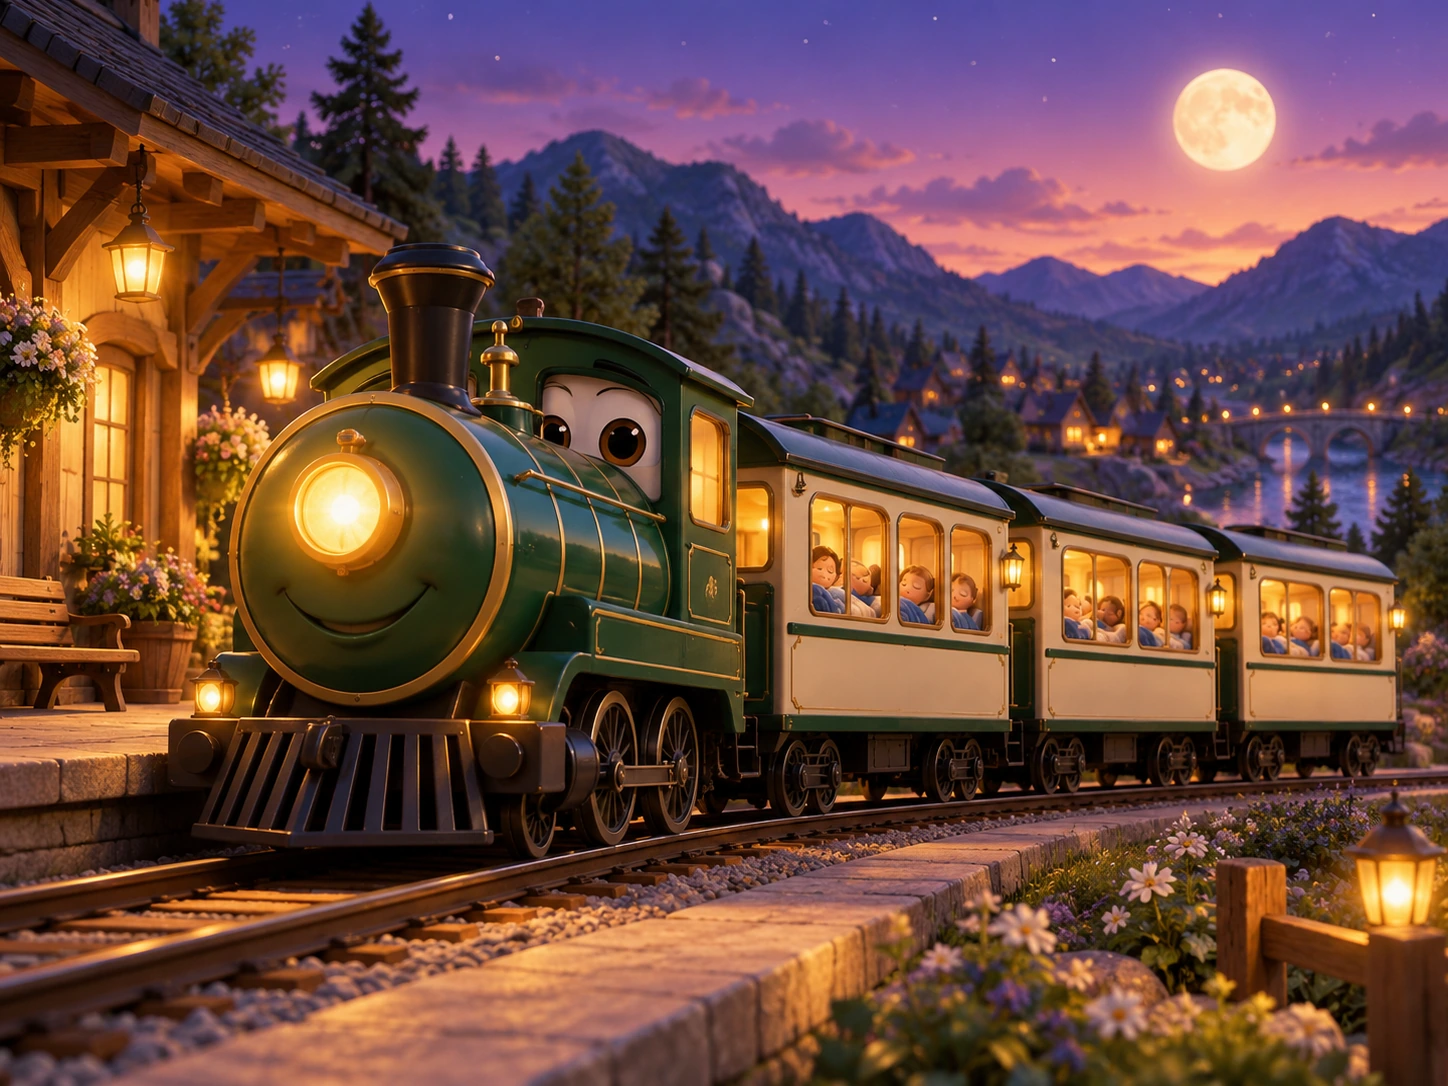
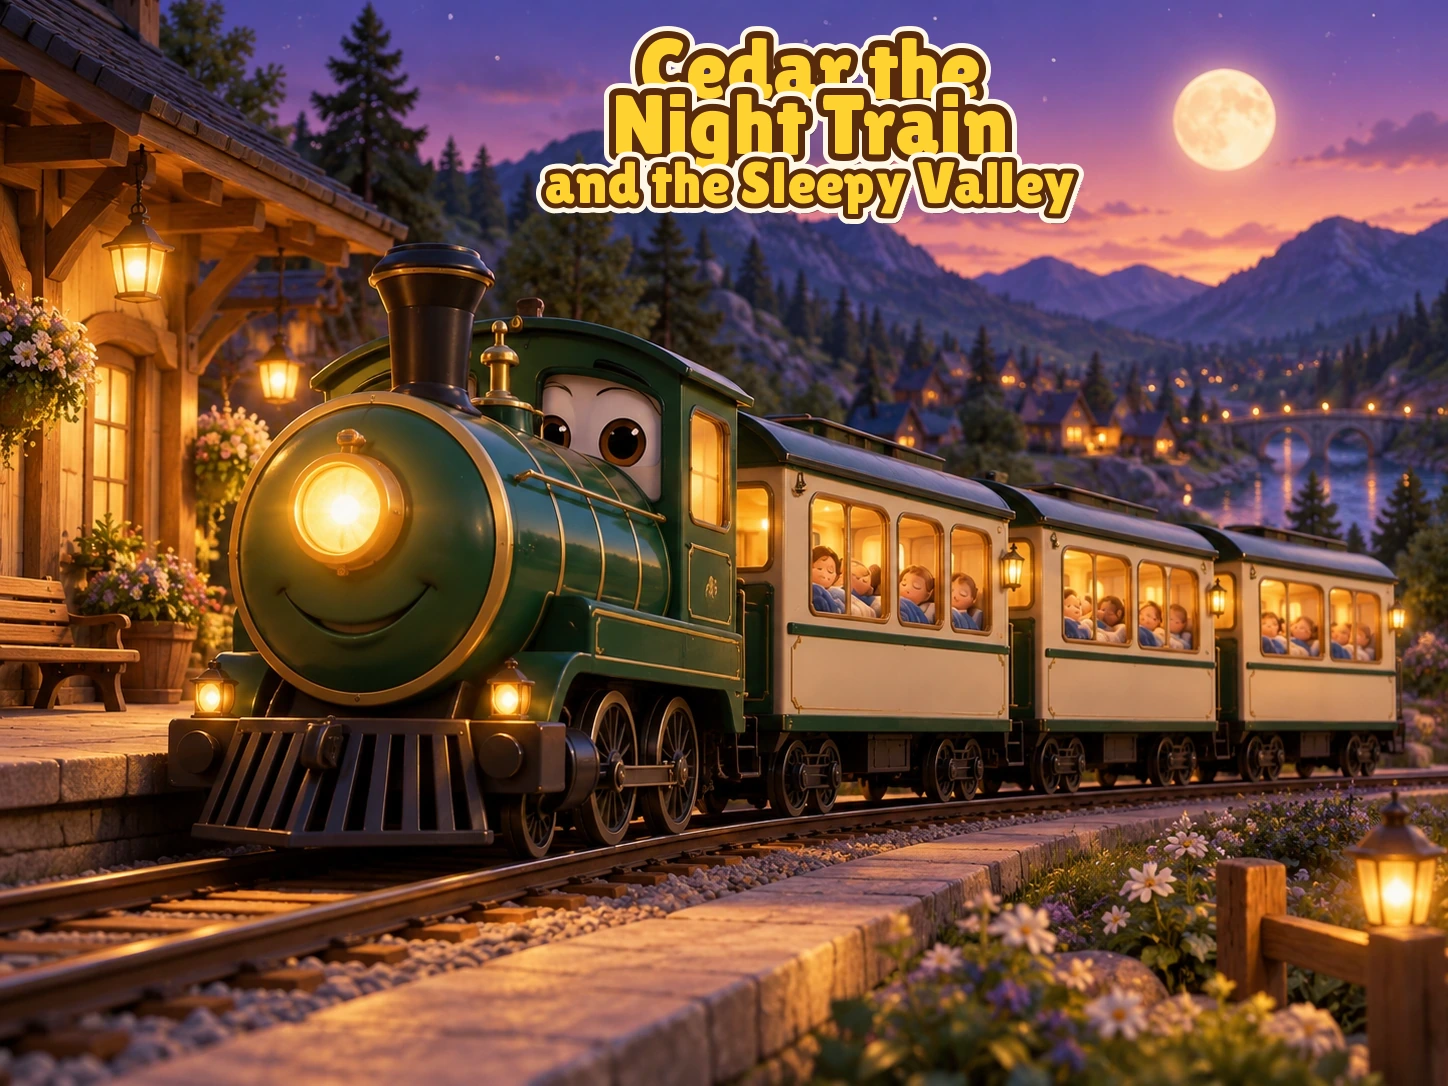
Paint story titles onto nine recent covers
Add the exact title in the upper sky of each published cover, in a gold children's-book style with a dark outline, and bump the cache to nolan-library-v62. Story pages are unchanged.

Changed region(s): [[0.3729, 0.0, 0.7459, 0.2127]]

diff --git a/sw.js b/sw.js
@@ -1,4 +1,4 @@
-const CACHE='nolan-library-v61';
+const CACHE='nolan-library-v62';
 const CORE=['./','index.html','styles.css','app.js','config/narration-voices.json','manifest.webmanifest','assets/icons/icon-192.png','assets/icons/icon-512.png'];
 self.addEventListener('install',e=>e.waitUntil(caches.open(CACHE).then(c=>c.addAll(CORE)).then(()=>self.skipWaiting())));
 self.addEventListener('activate',e=>e.waitUntil(caches.keys().then(keys=>Promise.all(keys.filter(k=>k!==CACHE).map(k=>caches.delete(k)))).then(()=>self.clients.claim())));
